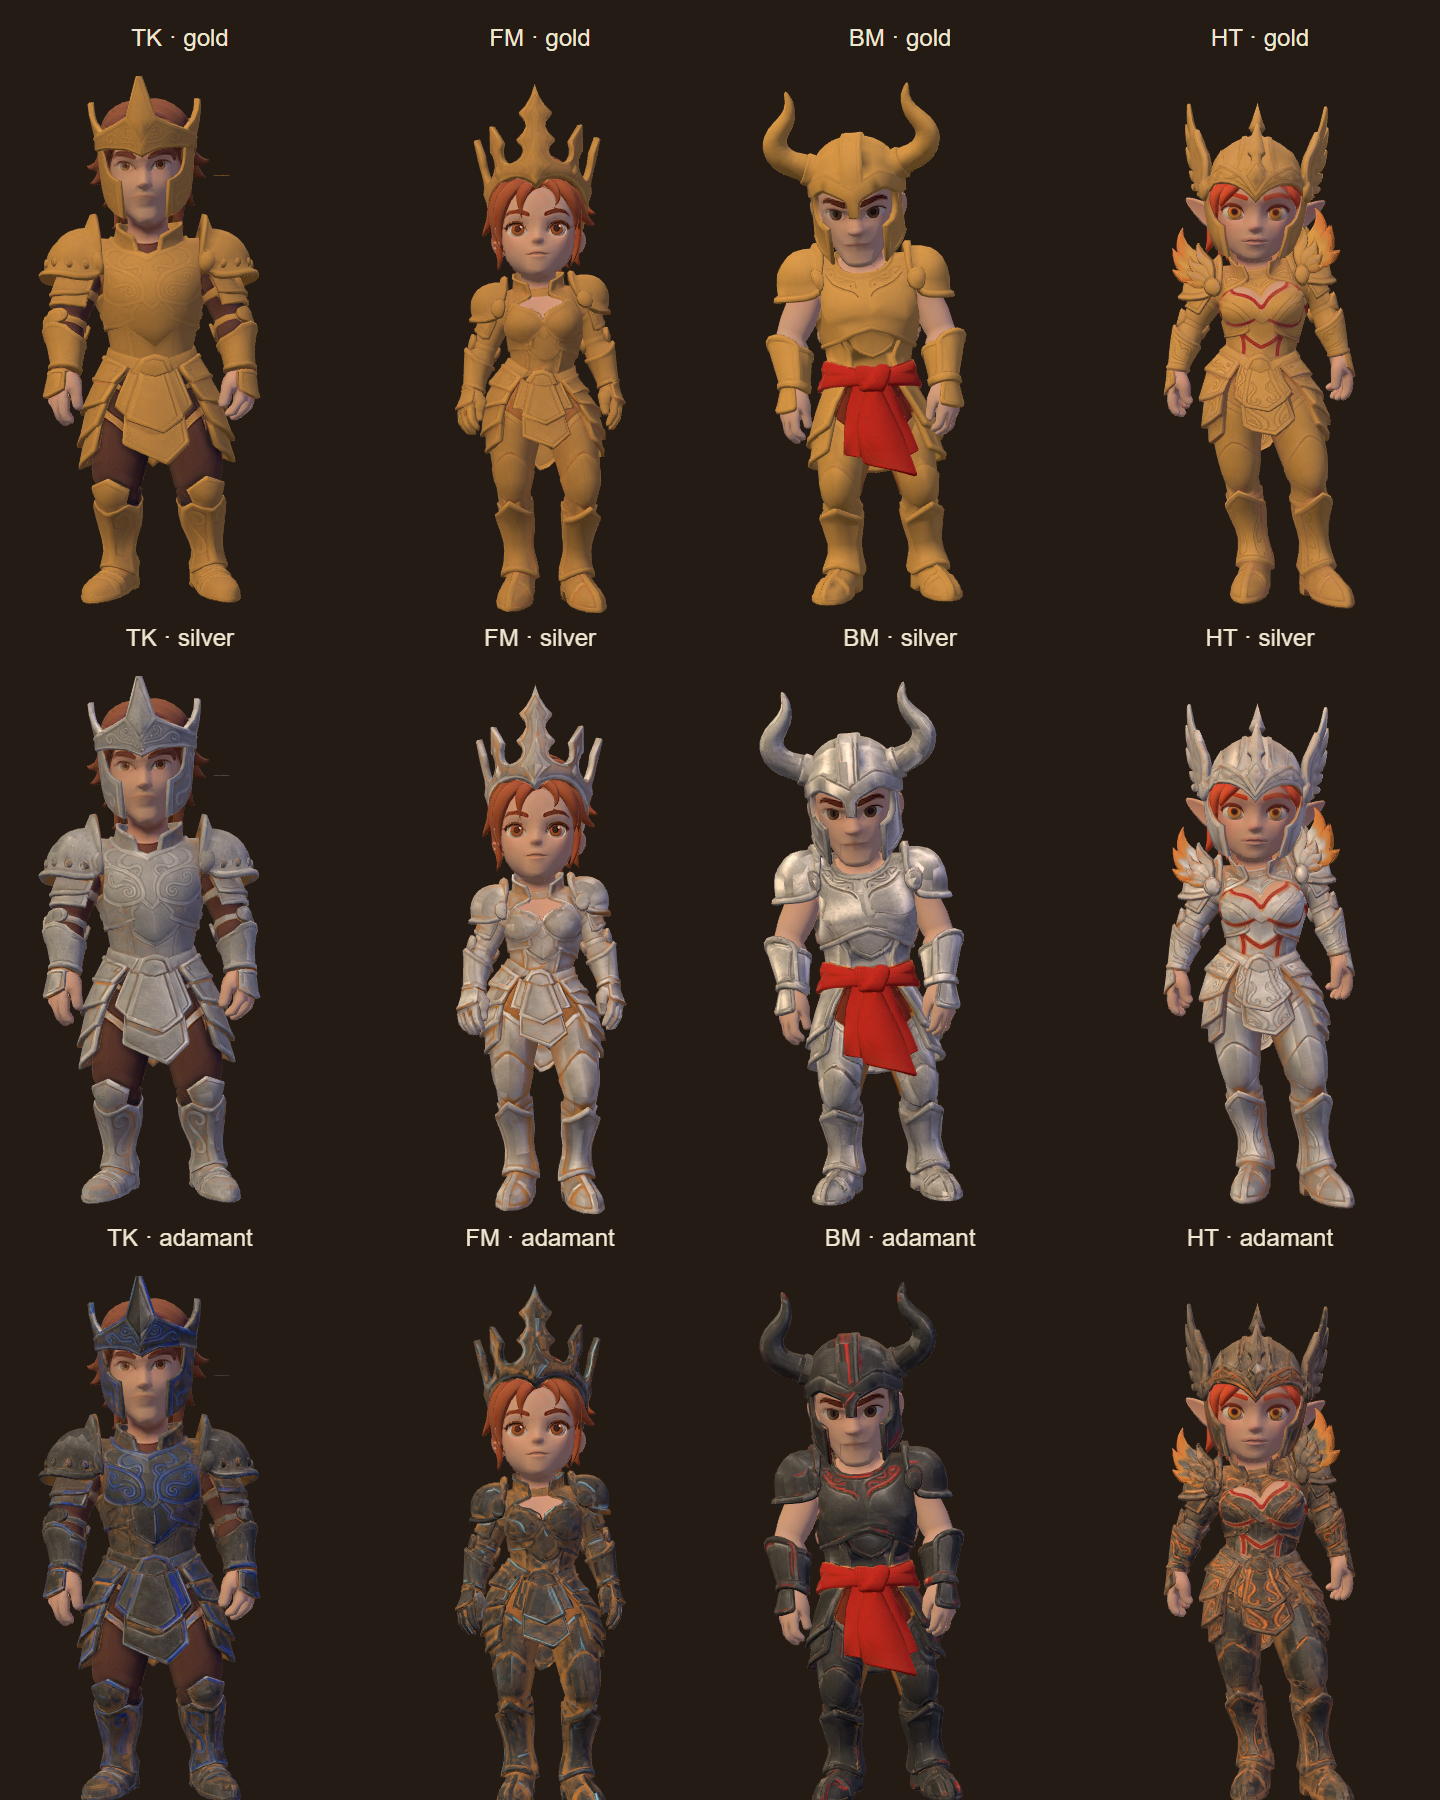
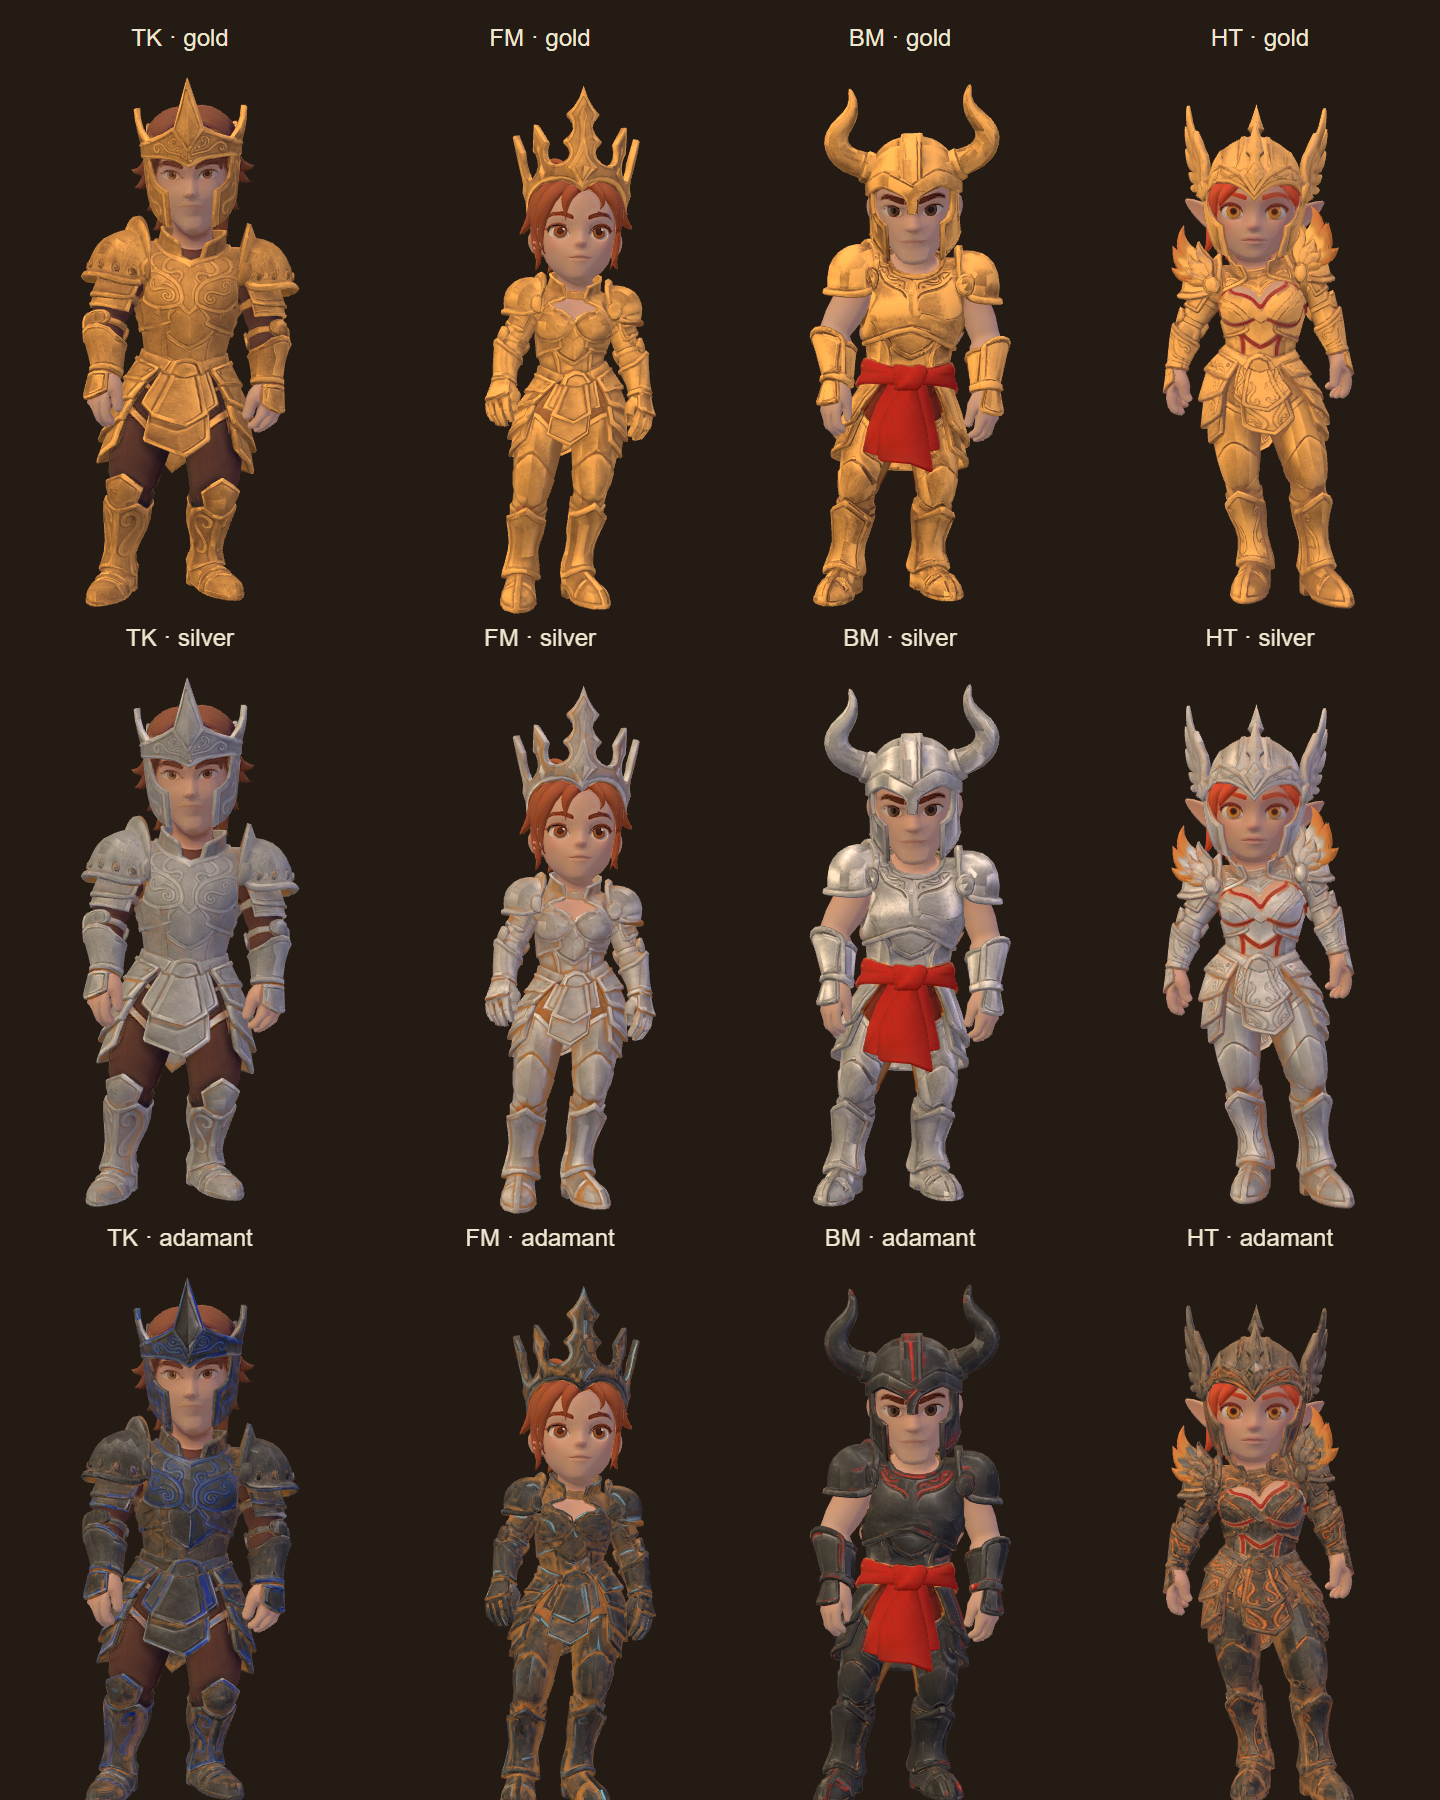
fix: validar skills fisicas do TK

diff --git a/game/src/domain/combat/tk-physical-skills.test.ts b/game/src/domain/combat/tk-physical-skills.test.ts
@@ -1,0 +1,147 @@
+import { afterEach, beforeEach, describe, expect, it, vi } from "vitest";
+import { TK_FISICA } from "../../data/classes/skills/tk";
+import { CharacterModel } from "../character/CharacterModel";
+import { BuffService } from "../character/BuffService";
+import { SkillTreeService } from "../skills/SkillTreeService";
+import type { AttackTarget } from "./AttackController";
+import { buildCombatMods } from "./CombatMods";
+import { FormState } from "./FormState";
+import { learnedPassives, SkillController } from "./SkillController";
+import { SkillLoadout } from "./SkillLoadout";
+import { SummonRuntime } from "./SummonRuntime";
+
+function setup(skillId: string) {
+  const tree = new SkillTreeService();
+  tree.grantSkillPoints(1000);
+  TK_FISICA.forEach((_skill, index) => expect(tree.learn("fisica", index)).toBe(true));
+  const loadout = new SkillLoadout(tree);
+  loadout.assign(skillId, 0);
+  if (loadout.slots[0]) loadout.toggleAuto(0);
+  const character = new CharacterModel({ maxHp: 1000, attack: 100, defense: 100 });
+  character.maxMp = 1000;
+  character.mp = 1000;
+  const buffs = new BuffService();
+  const form = new FormState();
+  const summons = new SummonRuntime();
+  const controller = new SkillController(loadout, character, tree);
+  const targets: AttackTarget[] = [{ id: "front", x: 0, z: 2, alive: true }];
+  const cast = (dt = 0, manual = -1, foes = targets, defense = 0, resist = 0, weapon: string | null = null) =>
+    controller.tick(dt, false, manual, true, foes, 0, 0, 0, () => defense, () => 0,
+      () => resist, () => ({ hp: 10000, maxHp: 10000 }), buffs, form, summons, weapon);
+  return { tree, loadout, character, buffs, form, controller, cast };
+}
+
+describe("TK físico comprado no runtime", () => {
+  beforeEach(() => vi.spyOn(Math, "random").mockReturnValue(0.9));
+  afterEach(() => vi.restoreAllMocks());
+
+  it.each(TK_FISICA.filter(skill => skill.kind !== "passive"))(
+    "$name usa auto-cast, MP e cooldown reais",
+    skill => {
+      const s = setup(skill.id);
+      const first = s.cast();
+      expect(first?.slot.skill.id).toBe(skill.id);
+      expect(s.character.mp).toBe(1000 - skill.mp);
+      expect(s.loadout.slots[0]?.cd).toBe(skill.cooldown);
+      expect(s.cast(skill.cooldown / 2)).toBeNull();
+      expect(s.character.mp).toBe(1000 - skill.mp);
+      s.buffs.tick(20);
+      expect(s.cast(skill.cooldown / 2)?.slot.skill.id).toBe(skill.id);
+      expect(s.character.mp).toBe(1000 - 2 * skill.mp);
+    },
+  );
+
+  it("Force Wave atinge apenas o alvo mais próximo e respeita alcance", () => {
+    const s = setup("tk_fis_force_wave");
+    const foes = [
+      { id: "near", x: 0, z: 2, alive: true },
+      { id: "far", x: 0, z: 6, alive: true },
+    ];
+    expect(s.cast(0, -1, foes)?.resolved.hits).toEqual([{ id: "near", x: 0, z: 2, damage: 125 }]);
+    s.controller.reset();
+    expect(s.cast(0, -1, [{ id: "outside", x: 0, z: 6.51, alive: true }])).toBeNull();
+    expect(s.character.mp).toBe(994);
+  });
+
+  it("Death Stab atravessa até três alvos à frente e ignora 25% da defesa", () => {
+    const s = setup("tk_fis_death_stab");
+    const foes = [1, 2, 3, 4].map(z => ({ id: `front${z}`, x: 0, z, alive: true }));
+    foes.push({ id: "back", x: 0, z: -1, alive: true });
+    const hits = s.cast(0, -1, foes, 100)?.resolved.hits;
+    expect(hits?.map(hit => hit.id)).toEqual(["front1", "front2", "front3"]);
+    expect(hits?.map(hit => hit.damage)).toEqual([89, 89, 89]);
+  });
+
+  it.each([
+    ["tk_fis_earthquake", 3.6, 170],
+    ["tk_fis_fire_burst", 4.4, 260],
+  ] as const)("%s aplica dano da arma a todos no raio e ignora resistência mágica", (id, radius, damage) => {
+    const s = setup(id);
+    s.character.baseMagicAttack = 1;
+    const foes = [
+      { id: "front", x: 0, z: radius, alive: true },
+      { id: "back", x: 0, z: -radius, alive: true },
+      { id: "outside", x: 0, z: radius + 0.01, alive: true },
+      { id: "dead", x: 0, z: 1, alive: false },
+    ];
+    const hits = s.cast(0, -1, foes, 0, 0.9)?.resolved.hits;
+    expect(hits?.map(hit => hit.id)).toEqual(["front", "back"]);
+    expect(hits?.map(hit => hit.damage)).toEqual([damage, damage]);
+  });
+
+  it.each([
+    ["tk_fis_atk_descuidado", 12, "tk_reckless_atk"],
+    ["tk_fis_fury", 10, "tk_fury"],
+  ] as const)("%s aplica buff por duração real, renova sem acumular e expira", (id, duration, buffId) => {
+    const s = setup(id);
+    expect(s.cast(0, -1, [])?.resolved.hits).toEqual([]);
+    expect(s.buffs.active.every(buff => buff.remainingSec === duration)).toBe(true);
+    const mods = () => buildCombatMods(s.buffs.active, [], null, s.form);
+    if (id === "tk_fis_atk_descuidado") {
+      expect(mods().attackMul).toBeCloseTo(1.28);
+      expect(mods().defenseMul).toBeCloseTo(0.82);
+    } else expect(mods().attackSpeed).toBeCloseTo(0.32);
+    const count = s.buffs.active.length;
+    s.controller.reset();
+    expect(s.cast()).toBeNull();
+    expect(s.cast(0, 0)).not.toBeNull();
+    expect(s.buffs.active).toHaveLength(count);
+    s.buffs.tick(duration - 0.01);
+    expect(s.buffs.has(buffId)).toBe(true);
+    s.buffs.tick(0.02);
+    expect(s.buffs.has(buffId)).toBe(false);
+    expect(mods().attackMul).toBe(1);
+    expect(mods().defenseMul).toBe(1);
+    expect(mods().attackSpeed).toBe(0);
+  });
+
+  it("Mestre Dual exige arma dupla, Increase Critical soma 12% e passivas não entram na barra", () => {
+    const s = setup("tk_fis_force_wave");
+    const passives = learnedPassives(s.tree);
+    expect(passives.map(skill => skill.id)).toEqual(["tk_fis_mestre_dual", "tk_fis_increase_critical"]);
+    for (const weapon of ["dual-axe", "dual-sword"]) {
+      const mods = buildCombatMods([], passives, weapon, s.form);
+      expect(mods.attackMul).toBeCloseTo(1.22);
+      expect(mods.critChance).toBeCloseTo(0.12);
+    }
+    expect(buildCombatMods([], passives, "sword-shield", s.form).attackMul).toBe(1);
+    expect(s.loadout.assign("tk_fis_mestre_dual", 1)).toBe(false);
+    expect(s.loadout.assign("tk_fis_increase_critical", 2)).toBe(false);
+    vi.mocked(Math.random).mockReturnValue(0.11);
+    expect(s.cast()?.resolved.hits[0].damage).toBe(188);
+  });
+
+  it("auto desabilitado não dispara, cast manual permanece e MP insuficiente bloqueia", () => {
+    const s = setup("tk_fis_force_wave");
+    s.loadout.toggleAuto(0);
+    expect(s.cast()).toBeNull();
+    expect(s.character.mp).toBe(1000);
+    expect(s.cast(0, 0)?.slot.skill.id).toBe("tk_fis_force_wave");
+    expect(s.cast(0, 0)).toBeNull();
+    s.controller.reset();
+    s.character.mp = 5;
+    expect(s.cast(0, 0)).toBeNull();
+    expect(s.character.mp).toBe(5);
+    expect(s.loadout.slots[0]?.cd).toBe(0);
+  });
+});

diff --git a/game/src/presentation/player/armor-appearance.test.ts b/game/src/presentation/player/armor-appearance.test.ts
@@ -14,7 +14,7 @@ describe("aparência de armadura", () => {
       for (const appearance of ["gold", "silver", "adamant"] as const) {
         const defId = `armor_chest_${classId.toLowerCase()}_${appearance}`;
         expect(resolveArmorAppearance(classId, defId)).toBe(appearance);
-        expect(armorAtlasUrl(classId, appearance)).toBe(`/textures/armor-painted/${classId}/${appearance}.webp`);
+        expect(armorAtlasUrl(classId, appearance)).toBe(`/textures/armor-painted/${classId}/${appearance === "gold" ? "silver" : appearance}.webp`);
       }
       expect(resolveArmorAppearance(classId)).toBe("gold");
       expect(resolveArmorAppearance(classId, "armadura_leve")).toBe("gold");
@@ -70,9 +70,9 @@ describe("aparência de armadura", () => {
   it("descarta a troca atrasada quando o jogador volta ao ouro", async () => {
     let finishSilver!: (texture: Texture) => void;
     const silver = new Promise<Texture>((resolve) => { finishSilver = resolve; });
-    const textureSpy = vi.spyOn(TextureLoader.prototype, "loadAsync").mockImplementation((url) =>
-      url.endsWith("/silver.webp") ? silver : Promise.resolve(new Texture()),
-    );
+    const textureSpy = vi.spyOn(TextureLoader.prototype, "loadAsync")
+      .mockResolvedValueOnce(new Texture())
+      .mockReturnValueOnce(silver);
     const loader = new GLTFLoader();
     const scene = new Group();
     scene.add(new Mesh(new BoxGeometry(1, 1, 1), new MeshStandardMaterial({ map: new Texture() })));

diff --git a/game/src/presentation/rendering/PaintedCharacterAtlas.ts b/game/src/presentation/rendering/PaintedCharacterAtlas.ts
@@ -6,7 +6,8 @@ const atlases = new Map<string, Promise<Texture>>();
 
 export function loadPaintedCharacterAtlas(classId: string, appearance: ArmorAppearance = "gold"): Promise<Texture> {
   const url = armorAtlasUrl(classId, appearance);
-  const existing = atlases.get(url);
+  const key = `${classId}:${appearance}`;
+  const existing = atlases.get(key);
   if (existing) return existing;
   const pending = new TextureLoader().loadAsync(url).then((texture) => {
     texture.flipY = false;
@@ -16,6 +17,6 @@ export function loadPaintedCharacterAtlas(classId: string, appearance: ArmorAppe
     stampAnisotropy(texture);
     return texture;
   });
-  atlases.set(url, pending);
+  atlases.set(key, pending);
   return pending;
 }

diff --git a/game/src/domain/combat/SkillController.ts b/game/src/domain/combat/SkillController.ts
@@ -196,7 +196,7 @@ export class SkillController {
     let best: LoadoutSlot | null = null;
     let bestScore = -1;
     for (const slot of this.loadout.slots) {
-      if (!slot || !(slot.cd <= 0)) continue;
+      if (!slot || !slot.auto || !(slot.cd <= 0)) continue;
       if (!this.affordable(slot, mods)) continue;
       if (!this.autoUseful(slot, hpRatio, buffs, form, summons, targets, px, pz, facing)) continue;
       const score = this.autoScore(slot, hpRatio);

diff --git a/nongame/docs/project/PLANO-VISUAL-GLOBAL.md b/nongame/docs/project/PLANO-VISUAL-GLOBAL.md
@@ -103,3 +103,5 @@ Novas bases de meadow e earth usam pinceladas amplas separadas. A textura do mat
 MSAA 2 amostras foi rejeitado: nesta Intel UHD, GPU mediana foi de 8,69 para 16,37 ms na cidade e de 9,14 para 16,16 ms na D1. FXAA ficou em 10,18 ms na cidade e 9,75 ms na D1 em outro A/B, ante 7,98 e 8,72 ms sem FXAA. É custo de acabamento, não ganho de desempenho. FXAA entra no composer dos níveis médio/alto; baixo continua sem pós-processamento. Medição estática 1440×900/DPR1, 60 quadros de aquecimento e 120 amostras; não representa FPS de combate.
 
 Inspeção posterior identificou dois triângulos desconectados no TK_Body, causando uma tira junto ao rosto. A limpeza compartilhada pelo runtime e pela seleção confere índices e posições antes de remover somente essas faces. Quatro testes com os GLBs reais passaram, preservando todos os atributos e transformações. O combate medido antes do merge é uma linha de base parcial: D1 teve deslocamento e golpes; D2 não confirmou deslocamento e nenhum cenário confirmou skill ativa. Repetir após integrar a main.
+
+V27 — Em execução após o merge: recuperar relevo pintado das armaduras douradas e leitura facial sob sombra. Comparação renderizada das quatro classes mostrou melhor relevo ao usar a luminância do atlas prateado como pigmento dourado, mantendo pele/cabelo do atlas original. Validar as 12 aparências e seleção antes de concluir tecnicamente.
